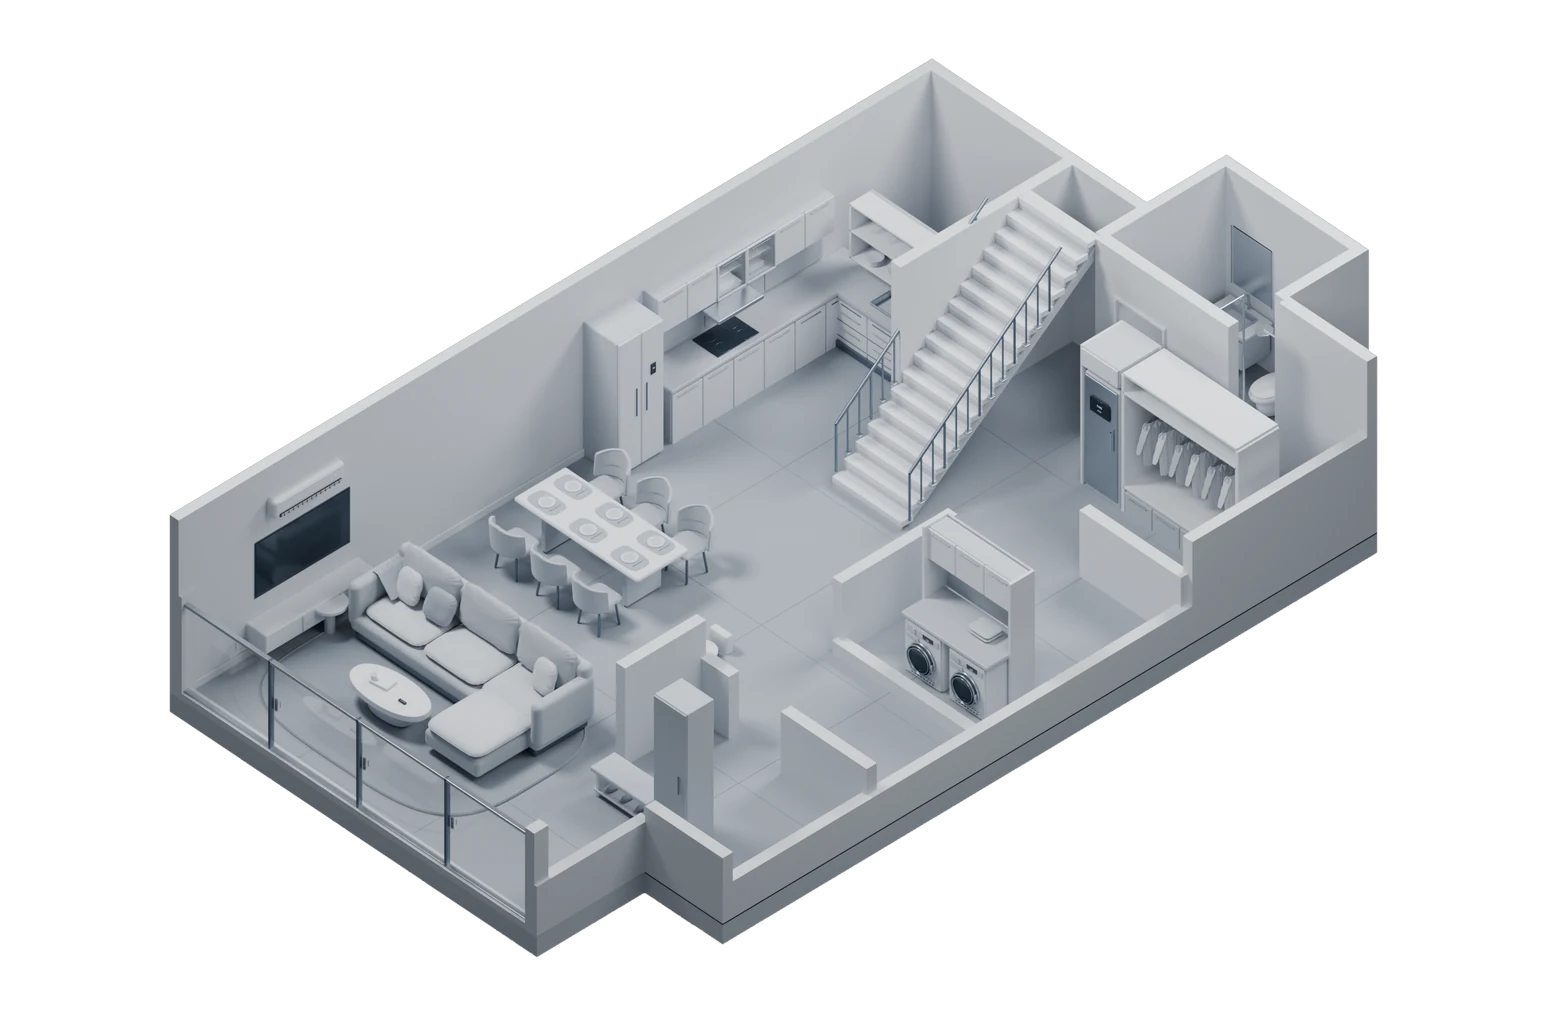
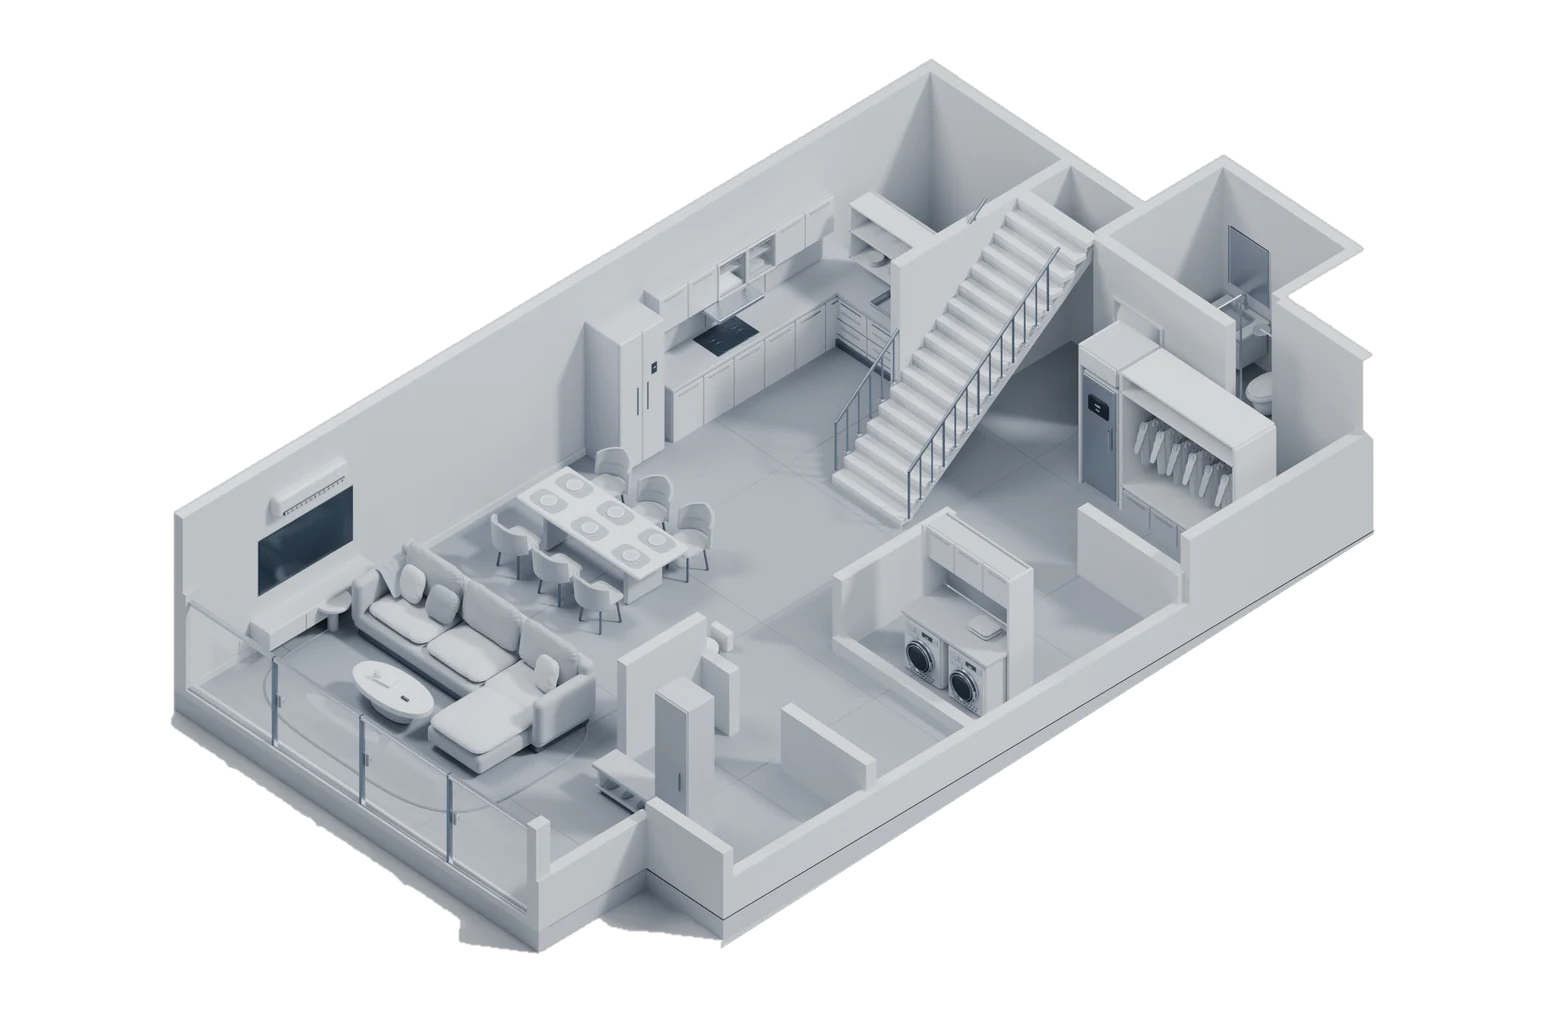
New 1F/2F 3D floor plans (background removed, shared framing); remap pins
Claude-Session: https://claude.ai/code/session_018mnowPvBHGDxwTwfuUijNo

diff --git a/wallpad/index.html b/wallpad/index.html
@@ -345,13 +345,13 @@
   /* ---------- 기기 데이터 (좌표 = 집 이미지 기준 %) ---------- */
   const devices = [
     { id:'fridge', name:'냉장고', x:41.5, y:38.5, kw:1.4, on:true,  today:'8.6 kWh', mode:'일반 냉장 3°C', w:[5,6,5,7,6,6,7,6,5,6,7,6] },
-    { id:'styler', name:'스타일러', x:71.3, y:41.5, kw:0.7, on:true,  today:'1.2 kWh', mode:'리프레시 코스', w:[0,0,1,3,7,8,6,2,0,0,0,0] },
-    { id:'washer', name:'세탁기', x:60.6, y:64.5, kw:1.7, on:true,  today:'2.4 kWh', mode:'표준 세탁 · 32분 남음', w:[0,0,0,2,6,9,9,8,4,1,0,0] },
-    { id:'ac',     name:'에어컨', x:19.5, y:48.5, kw:1.9, on:false, today:'0 kWh',   mode:'꺼짐', w:[3,4,6,8,9,8,7,5,0,0,0,0] },
-    { id:'tv',     name:'TV',     x:19.8, y:54.5, kw:0.3, on:false, today:'0.6 kWh', mode:'꺼짐', w:[0,1,2,1,0,0,2,4,6,5,0,0] },
-    { id:'ac2',    name:'안방 에어컨', f:2, x:14.3, y:49.9, kw:1.2, on:false, today:'0 kWh', mode:'꺼짐', w:[2,3,5,7,8,7,6,4,0,0,0,0] },
-    { id:'robot',  name:'로봇청소기', f:2, x:39.3, y:48.9, kw:0.1, on:true, today:'0.3 kWh', mode:'거실·안방 청소 중', w:[0,0,0,3,6,4,0,0,0,0,0,0] },
-    { id:'pc',     name:'PC',     f:2, x:46.4, y:63.6, kw:0.4, on:true, today:'1.8 kWh', mode:'작업 중', w:[0,0,2,5,6,6,5,6,4,2,0,0] },
+    { id:'styler', name:'스타일러', x:71.2, y:41.5, kw:0.7, on:true,  today:'1.2 kWh', mode:'리프레시 코스', w:[0,0,1,3,7,8,6,2,0,0,0,0] },
+    { id:'washer', name:'세탁기', x:60.6, y:65, kw:1.7, on:true,  today:'2.4 kWh', mode:'표준 세탁 · 32분 남음', w:[0,0,0,2,6,9,9,8,4,1,0,0] },
+    { id:'ac',     name:'에어컨', x:20, y:48.5, kw:1.9, on:false, today:'0 kWh',   mode:'꺼짐', w:[3,4,6,8,9,8,7,5,0,0,0,0] },
+    { id:'tv',     name:'TV',     x:19.5, y:54.5, kw:0.3, on:false, today:'0.6 kWh', mode:'꺼짐', w:[0,1,2,1,0,0,2,4,6,5,0,0] },
+    { id:'ac2',    name:'안방 에어컨', f:2, x:20.5, y:48.5, kw:1.2, on:false, today:'0 kWh', mode:'꺼짐', w:[2,3,5,7,8,7,6,4,0,0,0,0] },
+    { id:'robot',  name:'로봇청소기', f:2, x:56.5, y:49.5, kw:0.1, on:true, today:'0.3 kWh', mode:'거실·안방 청소 중', w:[0,0,0,3,6,4,0,0,0,0,0,0] },
+    { id:'pc',     name:'PC',     f:2, x:43.7, y:70, kw:0.4, on:true, today:'1.8 kWh', mode:'작업 중', w:[0,0,2,5,6,6,5,6,4,2,0,0] },
   ];
 
   const spotsEl = $('#spots');

diff --git a/setup/index.html b/setup/index.html
@@ -231,7 +231,7 @@ button{font:inherit;color:inherit;background:none;border:0;cursor:pointer}
   }
 
   /* 2. 가전 찾기: 도면 위에 핀이 하나씩 */
-  const DEV = [ ['세탁기',1,60.6,64.5], ['냉장고',0,41.5,38.5], ['스타일러',1,71.3,41.5], ['에어컨',0,19.5,48.5], ['TV',0,19.8,54.5] ];
+  const DEV = [ ['세탁기',1,60.6,65], ['냉장고',0,41.5,38.5], ['스타일러',1,71.2,41.5], ['에어컨',0,20,48.5], ['TV',0,19.5,54.5] ];
   const spots = $('#spots');
   const spotEls = DEV.map(([n, k, x, y]) => { const e = document.createElement('div'); e.className = 'spot' + (k ? ' k' : ''); e.style.left = x + '%'; e.style.top = y + '%';
     e.innerHTML = `<div class="pin"><i></i></div><div class="tag">${n}</div>`; spots.appendChild(e); return e; });
